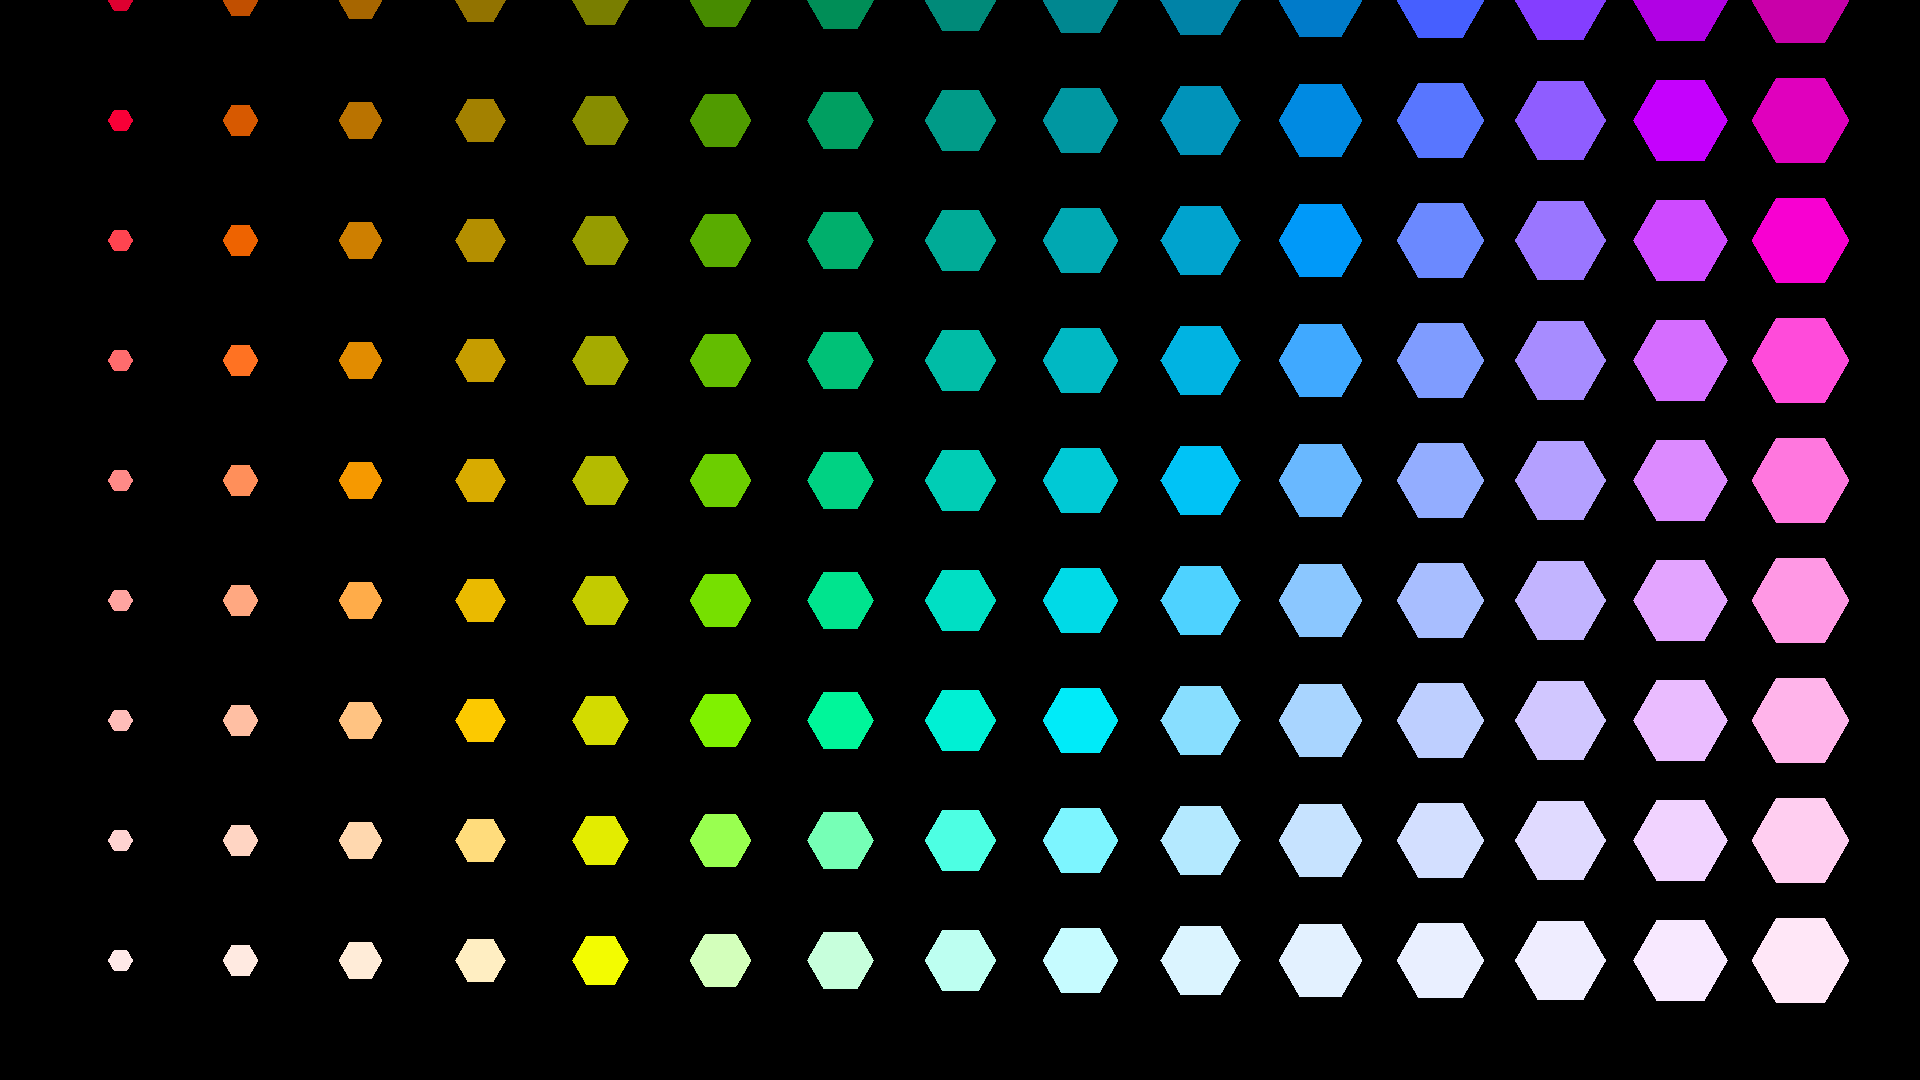
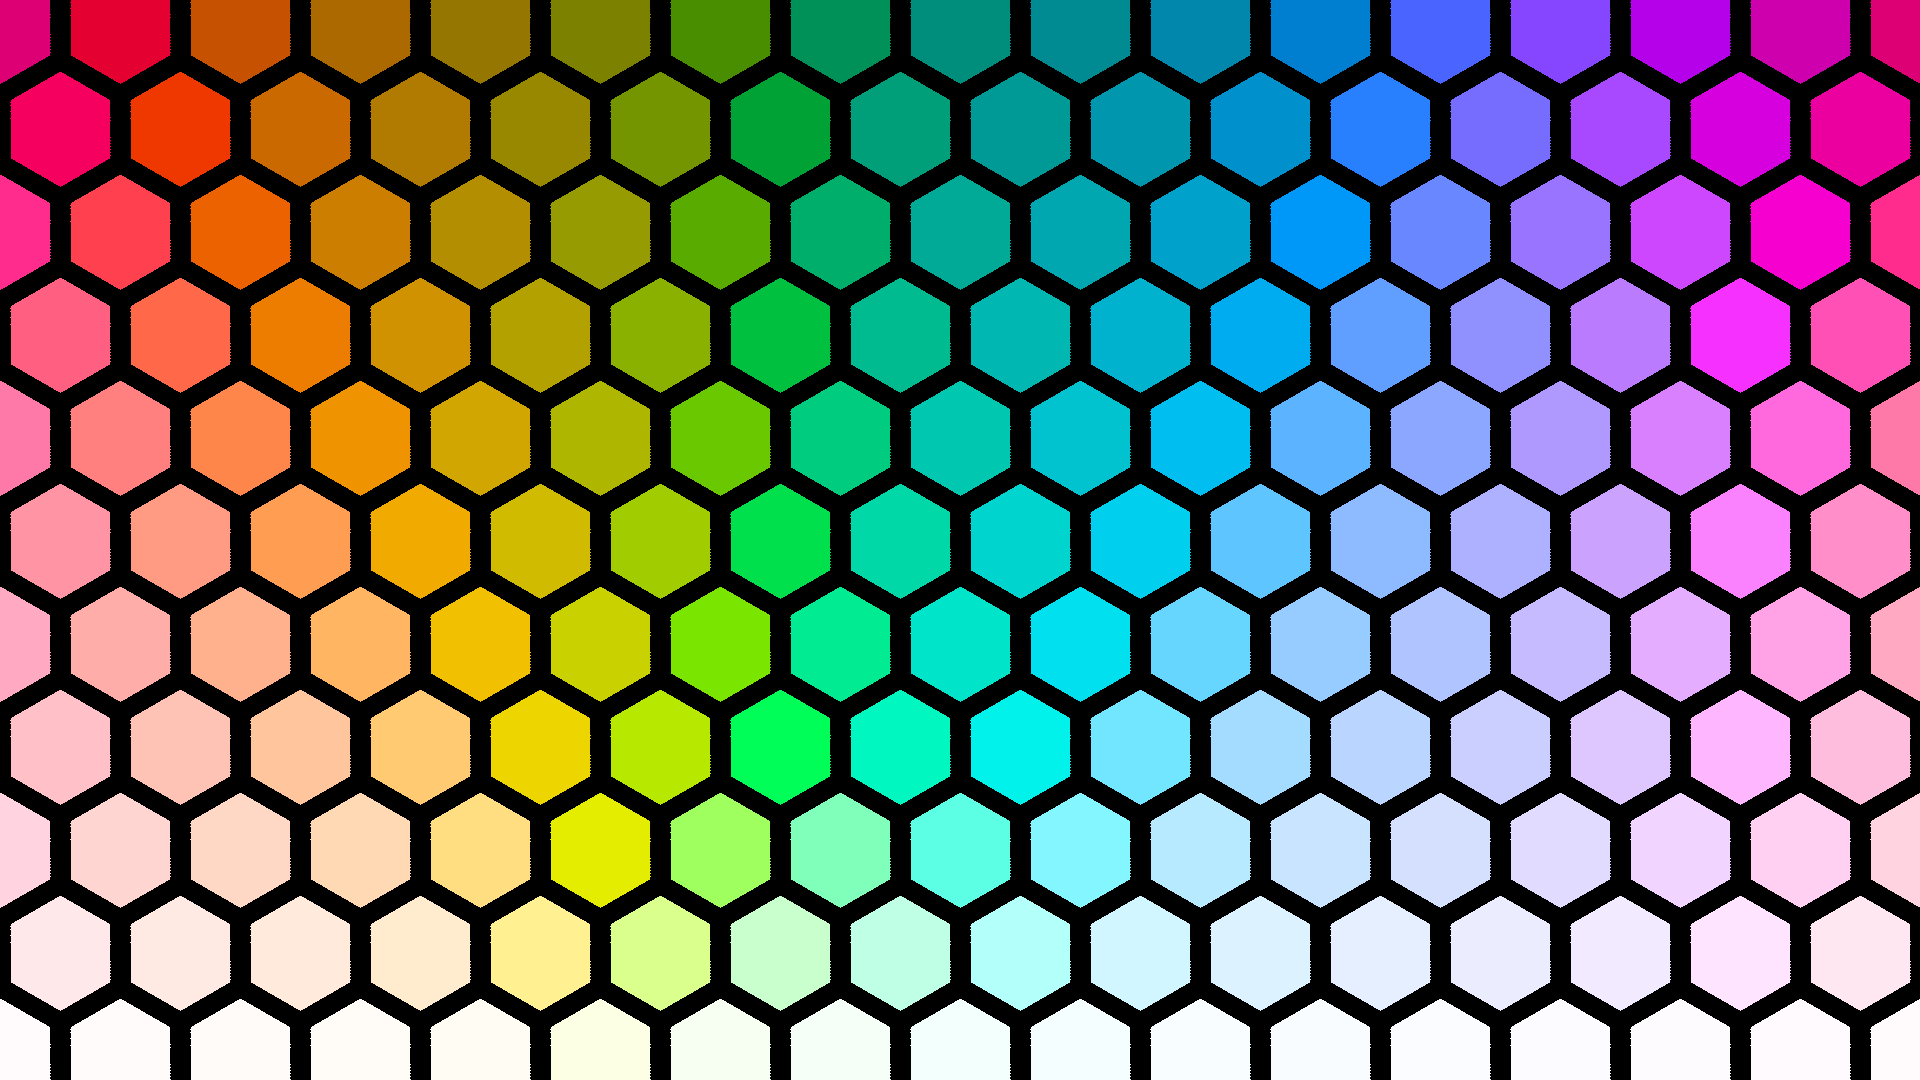
Composite image

diff --git a/src/algorithms/shapes/hex.rs b/src/algorithms/shapes/hex.rs
@@ -1,6 +1,9 @@
+use std::f32::consts::TAU;
 use crate::*;
 use crate::{Args, Generator};
 use glam::{UVec2, Vec2};
+use num::integer::Roots;
+use rand::random;
 use crate::algorithms::shapes::types::hex::Hexagon;
 use crate::algorithms::shapes::types::shape_object::ShapeObject;
 use crate::algorithms::shapes::types::shape_set::ShapeSet;
@@ -10,29 +13,7 @@ pub struct Hex;
 
 impl Generator for Hex {
     fn generate(args: &Args) -> DynamicImage {
-        let (width, height) = args.wh();
-
-        let mut points = vec![];
-        for x in (0..width).step_by(120) {
-            for y in (0..height).step_by(120) {
-                let pos = UVec2::new(x, y).as_vec2();
-                let size = (x as f32).sqrt();
-                let colour = colour_utils::convert_from_ok_hsl(
-                    x as f32 / width as f32,
-                    1.0,
-                    y as f32 / height as f32 * 0.5 + 0.5,
-                );
-
-                let p = Hexagon::new(
-                    pos,
-                    colour,
-                    size,
-                    0.0,
-                );
-
-                points.push(Box::new(p) as Box<dyn ShapeObject>);
-            }
-        }
+        let points = hexagons(args);
         let shapes = ShapeSet { objects: points };
 
         shapes.generate(args)
@@ -44,3 +25,47 @@ impl Generator for Hex {
 }
 
 
+pub fn hexagons(args: &Args) -> Vec<Box<dyn ShapeObject>> {
+    let (width, height) = args.wh();
+
+    let vx = 120;
+    let factor = 3_f32.sqrt() / 2.;
+    let vy = (vx as f32 * factor) as u32;
+
+
+    let mut points = vec![];
+    for x in (0..(width + vx)).step_by(vx as usize) {
+        for y in (0..(height)).step_by(vy as usize) {
+            let row_odd = (y / vy) % 2;
+            let offset = Vec2::new(vx as f32, vy as f32) / 2. * Vec2::new(row_odd as f32, 0.5);
+            let pos = UVec2::new(x, y).as_vec2() + offset;
+            let prop = pos / UVec2::new(width, height).as_vec2();
+            let size = 50.;
+            let colour = colour_utils::convert_from_ok_hsl(
+                prop.x,
+                1.0,
+                prop.y * 0.5 + 0.5,
+            );
+
+            // let (flat, pointy) = (0.0, TAU / 12.);
+            //
+            // let rotation = if random::<f32>() < 0.5 {
+            //     flat
+            // } else {
+            //     pointy
+            // };
+
+            let rotation = TAU / 12.;
+
+            let p = Hexagon::new(
+                pos,
+                colour,
+                size,
+                rotation,
+            );
+
+            points.push(Box::new(p) as Box<dyn ShapeObject>);
+        }
+    }
+    points
+}

diff --git a/src/algorithms/shapes/composite.rs b/src/algorithms/shapes/composite.rs
@@ -1,0 +1,52 @@
+use crate::algorithms::shapes::types::shape_set::ShapeSet;
+use crate::utils::colour_utils::ImageColour;
+use crate::utils::image_manager::Args;
+use glam::UVec2;
+use image::{DynamicImage, Rgb, Rgb32FImage};
+use palette::named::BLACK;
+
+pub struct CompositeRenderer {
+    pub generators: Vec<(Rgb32FImage, ShapeSet)>,
+    pub default: Rgb32FImage,
+}
+
+impl CompositeRenderer {
+    pub fn from_generators_shapes(
+        generators: Vec<Box<dyn Fn(&Args) -> DynamicImage>>,
+        shapes: Vec<ShapeSet>,
+        args: &Args,
+        default: Box<dyn Fn(&Args) -> DynamicImage>,
+    ) -> Self {
+        let g = generators
+            .into_iter()
+            .zip(shapes)
+            .map(|(x, y)| ((x)(args).to_rgb32f(), y))
+            .collect::<Vec<_>>();
+        Self {
+            generators: g,
+            default: (default)(args).to_rgb32f(),
+        }
+    }
+
+    pub fn generate(self, args: &Args) -> DynamicImage {
+        let mut image = args.image_f32(Rgb::from_const(BLACK));
+
+        for y in 0..args.height {
+            for x in 0..args.width {
+                let pos = UVec2::new(x, y).as_vec2();
+                for (ref_image, shape) in self.generators.iter() {
+                    if shape.contains(pos) {
+                        let ref_pix = ref_image.get_pixel(x, y);
+                        let shape_pix = shape.colour(pos);
+                        image.put_pixel(x, y, mult(*ref_pix, shape_pix));
+                    }
+                }
+            }
+        }
+        image.into()
+    }
+}
+
+fn mult(bg: Rgb<f32>, fg: Rgb<f32>) -> Rgb<f32> {
+    Rgb(bg.0.iter().zip(fg.0).map(|(a, b)| a * b).collect::<Vec<_>>().try_into().unwrap())
+}

diff --git a/src/algorithms/shapes/types/hex.rs b/src/algorithms/shapes/types/hex.rs
@@ -9,32 +9,43 @@ pub struct Hexagon {
     pos: Vec2,
     col: Rgb<f32>,
     size: f32,
-    radius: f32,
+    rotation: f32,
 }
 
 impl Hexagon {
-    pub fn new(pos: Vec2, col: Rgb<f32>, size: f32, radius: f32) -> Self {
+    pub fn new(pos: Vec2, col: Rgb<f32>, size: f32, rotation: f32) -> Self {
         Self {
             pos,
             col,
             size,
-            radius,
+            rotation
         }
     }
 }
 
 impl ShapeObject for Hexagon {
     fn sdf(&self, position: &Vec2) -> f32 {
+        // Compute the vector from the hexagon's center
+        let pos = *position - self.pos;
+
+        // Compute sine and cosine of the rotation angle
+        let cos_a = self.rotation.cos();
+        let sin_a = self.rotation.sin();
+        // Rotate the position around the origin
+        let rotated = Vec2::new(
+            pos.x * cos_a + pos.y * sin_a,
+            -pos.x * sin_a + pos.y * cos_a,
+        );
+
+        // Proceed with SDF calculations using the rotated coordinate
         let k2 = Vec2::new(-0.866_025_4, 0.5);
         let z = 0.577_350_26;
         let s = self.size;
-        let r = self.radius;
 
-        // confusing line
-        let mut p = (*position - self.pos).abs();
+        let mut p = rotated.abs();
         p -= k2 * (2.0 * k2.dot(p).min(0.0));
         p -= Vec2::new(clamp(p.x, -z * s, z * s), s);
-        p.length() * p.y.signum() - r
+        p.length() * p.y.signum()
     }
 
     fn colour(&self) -> Rgb<f32> {

diff --git a/src/algorithms/particle/flow.rs b/src/algorithms/particle/flow.rs
@@ -67,12 +67,15 @@ impl Particle {
         }
     }
 
-    fn draw(&self, image: &mut Rgba32FImage) {
+    fn draw(&self, image: &mut Rgba32FImage, i: usize) {
         let [x, y] = self.pos.as_uvec2().to_array();
 
         if image.in_bounds(x, y) {
             let prev = image.get_pixel(x, y);
-            let new = blend(*prev, self.col);
+
+            let colour = self.col;
+
+            let new = blend(*prev, colour);
             image.put_pixel(x, y, new)
         }
     }
@@ -82,7 +85,8 @@ struct ParticleSet {
     particles: Vec<Particle>,
     dead: bool,
     fbm: BetterFbm,
-    size: Vec2
+    size: Vec2,
+    n: usize,
 }
 
 impl ParticleSet {
@@ -111,10 +115,12 @@ impl ParticleSet {
             dead: false,
             fbm,
             size: Vec2::new(size.0 as f32, size.1 as f32),
+            n,
         }
     }
 
     fn update(&mut self) {
+        self.n += 1;
         self.dead = true;
         for p in &mut self.particles {
             if !p.dead {
@@ -127,7 +133,7 @@ impl ParticleSet {
     fn draw(&self, image: &mut Rgba32FImage) {
         for p in self.particles.iter() {
             if !p.dead && self.includes(p, 1.0) {
-                p.draw(image);
+                p.draw(image, self.n);
             }
         }
     }

diff --git a/src/algorithms/shapes/types/shape_set.rs b/src/algorithms/shapes/types/shape_set.rs
@@ -45,7 +45,7 @@ impl ShapeSet {
                     .iter()
                     .filter_map(|object| {
                         let d = object.sdf(&pos);
-                        if d < 0.0 {
+                        if d < -0.0 {
                             return Some(object.colour());
                         };
                         None
@@ -71,5 +71,17 @@ impl ShapeSet {
         Self {
             objects: objects.into_iter().map(|x| Box::new(x) as Box<dyn ShapeObject>).collect(),
         }
+    }
+
+    pub fn contains(&self, p: Vec2) -> bool {
+        self.objects.iter().any(|x| x.contains(p))
+    }
+
+    pub fn sdf(&self, p: Vec2) -> f32 {
+        self.objects.iter().map(|x| x.sdf(&p)).min_by(|a, b| a.partial_cmp(b).unwrap()).unwrap()
+    }
+
+    pub fn colour(&self, p:Vec2) -> Rgb<f32> {
+        self.objects.iter().find(|x| x.contains(p)).unwrap().colour()
     }
 }

diff --git a/src/algorithms/shapes/testing.rs b/src/algorithms/shapes/testing.rs
@@ -1,0 +1,27 @@
+use glam::Vec2;
+use image::{DynamicImage, Rgb};
+use palette::named::BLACK;
+use crate::algorithms::shapes::{composite, hex, types};
+use crate::algorithms::shapes::types::shape_set::ShapeSet;
+use crate::Generator;
+use crate::utils::colour_utils::ImageColour;
+use crate::utils::image_manager::Args;
+
+#[derive(Default)]
+pub(crate) struct ShapeTesting {}
+
+impl Generator for ShapeTesting {
+    fn generate(args: &Args) -> DynamicImage {
+        let shapes = hex::hexagons(args);
+        let s = ShapeSet { objects: shapes };
+        let image = crate::algorithms::particle::flow::Flow::generate(args).into_rgb32f();
+        composite::CompositeRenderer {
+            generators: vec![(image, s)],
+            default: args.image_f32(Rgb::from_const(BLACK)),
+        }.generate(args)
+    }
+
+    fn name() -> &'static str {
+        "Hexagon mapped flow"
+    }
+}

diff --git a/src/algorithms/maths/julia.rs b/src/algorithms/maths/julia.rs
@@ -25,8 +25,8 @@ impl Generator for Julia {
                 // Centre of the complex plane that we're focusing on
                 let centre = Complex64::new(0.0, -0.4);
 
-                // Zoom level: Smaller = stuff gets smaller
-                let zoom = 1.0 / 0.8;
+                // Zoom level: Bigger = number bigger
+                let zoom = 1.25;
 
                 let z = Complex64::new(x, y) / zoom + centre;
 

diff --git a/src/main.rs b/src/main.rs
@@ -17,7 +17,7 @@ trait Generator: Default {
 
 fn main() {
     let a = Args::new(1920, 1080, "./demo");
-    ImageManager::run::<algorithms::maths::julia::Julia>(&a).unwrap();
+    ImageManager::run::<algorithms::shapes::testing::ShapeTesting>(&a).unwrap();
 }
 
 #[cfg(test)]

diff --git a/src/algorithms/shapes/types/shape_object.rs b/src/algorithms/shapes/types/shape_object.rs
@@ -7,4 +7,8 @@ pub trait ShapeObject: Send + Sync {
     fn colour(&self) -> Rgb<f32>;
 
     fn position_mut(&mut self) -> &mut Vec2;
+
+    fn contains(&self, p: Vec2) -> bool {
+        self.sdf(&p) <= 0.0
+    }
 }

diff --git a/src/algorithms/shapes/mod.rs b/src/algorithms/shapes/mod.rs
@@ -1,3 +1,5 @@
 pub(crate) mod hex;
 pub(crate) mod delaunay;
 mod types;
+pub mod composite;
+pub mod testing;

diff --git a/readme.md b/readme.md
@@ -86,9 +86,3 @@ Spiral
 Voronoi
 
 ![Voronoi.png](demo/Voronoi.png)
-
----
-
-Waterfall
-
-![Waterfall.png](demo/Waterfall.png)
